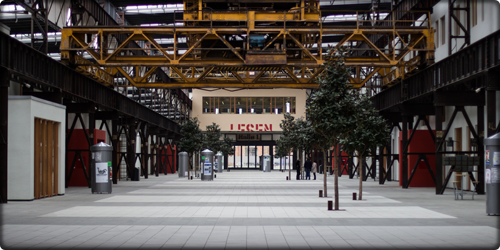
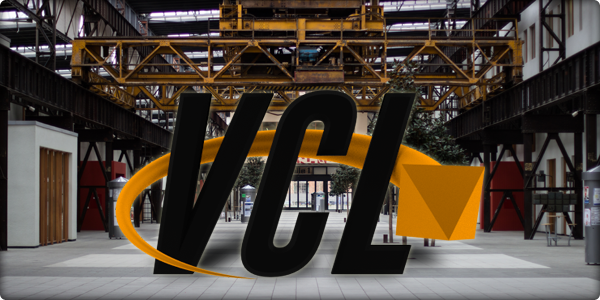
Startpage changed

diff --git a/_start_modal.html b/_start_modal.html
@@ -3,28 +3,26 @@
     <div class="modal-content">
       <div class="modal-header">
         <button type="button" class="close" data-dismiss="modal" aria-hidden="true">&times;</button>
-        <h4 class="modal-title" id="myModalLabel">Wilkommen im Projekt Virtueller Campus Lingen</h4>
+        <h3 class="modal-title" id="myModalLabel">Wilkommen am virtuellen Campus Lingen</h3>
       </div>
       <div class="modal-body">
-        <div>
-          <img src="assets/img/campus_start.png"/>
-          <div class="inline-image"><img style="z-index: 2; margin-top: -250px;" src="assets/img/vcl.gif"/><div>
-        </div>
-        Dieses Studienprojekt bietet Ihnen die Möglichkeit sich frei durch den Campus Lingen zu bewgegen.
-        Klicken Sie auf die <b>Karte</b> (rechts unten im Bild), um eine Liste interessanter Sehenswürdigkeiten zu sehen. Hier können sie sich über die einzelnen Studiengänge des Hochschulstandortes informieren.
-        <br/>
-        <div class="well" style="padding: 5px;">
-        Eine optimale Darstellung kann nur in aktuellen Internetbrowsern garantiert werden. Es wird empfohlen <b>Google Chrome</b> ab der Version 30 für diese Anwedung zu verwenden.
+        <img  id="startUpImage" src="assets/img/campus_start.png"/>
+        <p align="justify">Dieses Studienprojekt bietet Ihnen die Möglichkeit sich frei durch den Campus Lingen zu bewgegen.
+        Klicken Sie auf die <b>Karte</b> (rechts unten im Bild), um eine Liste interessanter Sehenswürdigkeiten zu sehen.
+        Hier können sie sich über die einzelnen Studiengänge des Hochschulstandortes informieren.</p>
+        <div class="well" style="padding: 5px; margin: 0; margin-top: 10px;">
+        <p align="justify">Eine optimale Darstellung kann nur in aktuellen Internetbrowsern garantiert werden.
+        Es wird empfohlen <b>Google Chrome</b> ab der Version 30 für diese Anwedung zu verwenden.</p>
         </div>
       </div>
-      <div style="padding: 17px 19px 5px;" class="modal-footer">
-        <button type="button" class="btn btn-success" data-dismiss="modal">Campus Rundgang starten</button>
+      <div class="modal-footer" style="margin: 0">
+        <button type="button" class="btn btn-success" data-dismiss="modal">Campusrundgang starten</button>
       </div>
     </div>
   </div>
 </div>
 <script>
   $(window).load(function(){
-    $("#minimap-hint-arrow").show("slide", 1500);
+    $("#minimap-hint-arrow").show("puff", 1500);
   });
 </script>

diff --git a/assets/css/init.css b/assets/css/init.css
@@ -52,8 +52,19 @@ body.modal-open {
 #minimap-hint-arrow {
   display: none;
   position: absolute;
-  bottom: 170px;
-  right: 0;
-  z-index: 1055;
+  bottom: 150px;
+  right: 100px;
+  z-index: 1040;
+}
+
+@media screen and (max-width: 1200px) {
+    #minimap-hint-arrow {
+        display: none !important;
+    }
+}
+
+#startUpImage {
+	width: 100%;
+	padding-bottom: 20px;
 }
 

diff --git a/index.html b/index.html
@@ -1,7 +1,7 @@
 <!DOCTYPE html>
 <html>
   <head>
-    <title>Custom Street View panoramas</title>
+    <title>Virtueller Campus Lingen</title>
     <meta charset="utf-8">
     <link href="https://developers.google.com/maps/documentation/javascript/examples/default.css" rel="stylesheet">
     <link href="admin/assets/css/bootstrap.min.css" rel="stylesheet" >
